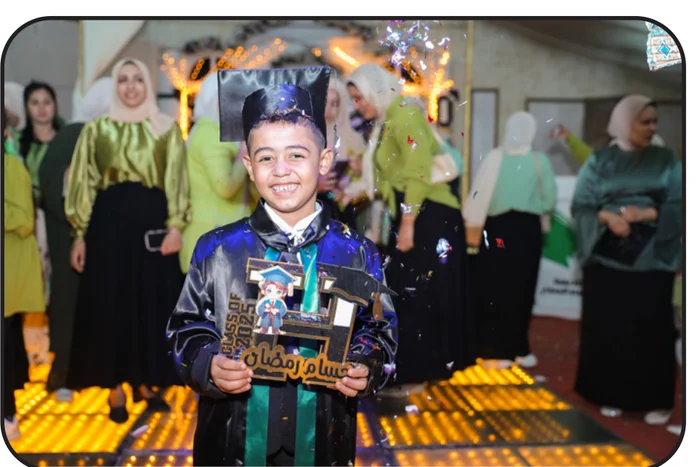
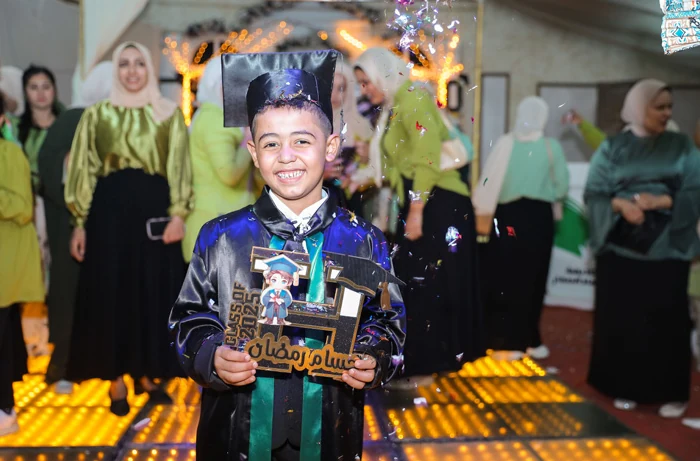
Take the page 74 photos straight from the PDF; drop the stray line from the first one

diff --git a/src/pages/SocialInvestment.jsx b/src/pages/SocialInvestment.jsx
@@ -35,7 +35,7 @@ import financeSmes from '../assets/report/soc/p55-efg-finance-smes.webp';
 import hermesOne from '../assets/report/soc/p56-hermes-one.webp';
 import poster56 from '../assets/report/soc/p56-poster.webp';
 import kenzi from '../assets/report/soc/p56-kenzi.webp';
-import handIcon57 from '../assets/report/soc/p57-hand.webp';
+import financingFigure57 from '../assets/report/soc/p57-figure-financing.svg';
 import dialysis from '../assets/report/soc/p58-dialysis.webp';
 import panel59 from '../assets/report/soc/p59-panel.webp';
 import signing61 from '../assets/report/soc/p61-signing.webp';
@@ -692,11 +692,11 @@ export default function SocialInvestment() {
             </div>
 
             <div>
-              <div className="rp-stat rp-stat--inline">
-                <div className="rp-stat-fig"><span className="rp-stat-u">EGP 2.458 BN</span></div>
-                <img className="rp-icon" src={handIcon57} width="700" height="597"
-                     style={{ '--w': '21.68cqw' }} alt="" />
-              </div>
+              {/* One piece of vector artwork in the PDF, the figure's outlined
+                  numerals over the wrist — exported path for path by
+                  tools/export-vector.py, the figure carried in the alt text. */}
+              <img className="rp-logo rp-logo--end" src={financingFigure57} width="153" height="111"
+                   style={{ '--w': 'max(182px, 25.69cqw)', '--wm': '220px' }} alt="EGP 2.458 BN" />
               {/* The print sets the three percentages as type on the slices, so
                   they are type here too rather than pixels inside a picture. */}
               <figure className="rp-figure-fig rp-chart">
@@ -1454,7 +1454,7 @@ export default function SocialInvestment() {
                   <h3>{title}</h3>
                   <p>{lines}</p>
                 </div>
-                <img src={photo} width="700" height="500" alt="" />
+                <img src={photo} width="700" height="463" alt="" />
               </div>
             ))}
           </div>

diff --git a/src/styles/report.css b/src/styles/report.css
@@ -1042,6 +1042,8 @@
 }
 .rp-media { display: block; width: 100%; height: auto; margin: 0 0 2cqw; }
 .rp-logo { display: block; width: var(--w); max-width: 100%; height: auto; margin: 0 0 2cqw; }
+/* a mark that stands at the end of its column, as the page 57 lockup does */
+.rp-logo--end { margin-left: auto; }
 .rp-figure-fig { margin: 2.4cqw 0 3cqw; }
 .rp-sec .rp-caption {
   margin: .8em 0 0; text-align: center; color: #808080;
@@ -1500,7 +1502,10 @@
   font-size: max(15px, 2.52cqw); color: var(--sr-green-deep);
 }
 .rp-sec .rp-glance-box p { margin: 0; text-align: center; font-size: max(14px, 2.352cqw); line-height: 1.45; }
-.rp-glance-row img { width: 100%; height: 100%; object-fit: cover; border-radius: 1.2cqw; }
+/* The print strokes each photograph with the same 1pt rule as the card beside
+   it. The file is the raw photograph (tools/extract-raw-photos.py), so the
+   stroke is drawn here, once. */
+.rp-glance-row img { box-sizing: border-box; width: 100%; height: 100%; object-fit: cover; border-radius: 1.2cqw; border: 1px solid var(--sr-black); }
 .rp-glance-head {
   margin: 3cqw 0 0; padding: 1.2cqw; text-align: center;
   border: 1.12px solid var(--sr-green-deep); border-radius: 1.2cqw;

diff --git a/src/pages/EnvironmentalStewardship.jsx b/src/pages/EnvironmentalStewardship.jsx
@@ -673,7 +673,7 @@ export default function EnvironmentalStewardship() {
                 are exported together, path for path, as one SVG. The alt text
                 carries the figure for a reader and a search engine. */}
             <img className="rp-logo" src={financingFigure} width="126" height="63"
-                 style={{ '--w': 'max(150px, 21.175cqw)' }} alt="EGP 1,161 BN" />
+                 style={{ '--w': 'max(150px, 21.175cqw)', '--wm': '180px' }} alt="EGP 1,161 BN" />
           </div>
 
           <p className="rp-lead rp-lead--sm">

diff --git a/tools/export-vector.py b/tools/export-vector.py
@@ -1,0 +1,74 @@
+#!/usr/bin/env python3
+"""Export a piece of vector artwork from the PDF, path for path, as an SVG.
+
+Used where the print draws a figure and its mark as one drawing — the hands
+lockups on printed pages 24 and 57, where the numerals are outlined glyphs laid
+over the wrist. A raster crop cannot take the hand without the figure, and
+masking the figure out broke the hand. So every filled path whose box lies
+inside the clip is written out in PDF coordinates, shifted to the origin.
+
+    python3 tools/export-vector.py
+"""
+from pathlib import Path
+
+import pymupdf
+
+ROOT = Path(__file__).resolve().parent.parent
+PDF = ROOT / 'public' / 'EFG-Holding-Sustainability-Report-2025.pdf'
+OUT = ROOT / 'src' / 'assets' / 'report'
+
+# (output, sheet, clip in sheet points, accessible name)
+JOBS = [
+    ('env/p24-figure-financing', 12, (410, 318, 548, 390), 'EGP 1,161 BN'),
+    ('soc/p57-figure-financing', 28, (955, 480, 1118, 600), 'EGP 2.458 BN'),
+]
+
+
+def hexcol(rgb):
+    return '#' + ''.join(f'{round(c * 255):02x}' for c in rgb)
+
+
+def export(name, sheet, clip, label, doc):
+    page = doc[sheet]
+    box = pymupdf.Rect(clip)
+    paths = [p for p in page.get_drawings() if p.get('fill') and box.contains(p['rect'])]
+    x0 = min(p['rect'].x0 for p in paths); y0 = min(p['rect'].y0 for p in paths)
+    x1 = max(p['rect'].x1 for p in paths); y1 = max(p['rect'].y1 for p in paths)
+    f = lambda pt: f'{pt.x - x0:.2f} {pt.y - y0:.2f}'
+    out = []
+    for p in paths:
+        d, cur = [], None
+        for it in p['items']:
+            k = it[0]
+            if k in ('l', 'c'):
+                a = it[1]
+                if cur is None or abs(cur.x - a.x) > 1e-3 or abs(cur.y - a.y) > 1e-3:
+                    d.append('M' + f(a))
+                d.append(('L' + f(it[2])) if k == 'l' else ('C' + ' '.join(f(q) for q in it[2:5])))
+                cur = it[-1]
+            elif k == 're':
+                q = it[1]
+                d.append(f'M{f(q.tl)}H{q.x1 - x0:.2f}V{q.y1 - y0:.2f}H{q.x0 - x0:.2f}Z'); cur = None
+            elif k == 'qu':
+                q = it[1]
+                d.append('M' + f(q.ul) + 'L' + f(q.ur) + 'L' + f(q.lr) + 'L' + f(q.ll) + 'Z'); cur = None
+        if p.get('closePath'):
+            d.append('Z')
+        rule = 'evenodd' if p.get('even_odd') else 'nonzero'
+        out.append(f'<path fill="{hexcol(p["fill"])}" fill-rule="{rule}" d="{"".join(d)}"/>')
+    w, h = x1 - x0, y1 - y0
+    svg = (f'<svg xmlns="http://www.w3.org/2000/svg" viewBox="0 0 {w:.2f} {h:.2f}" width="{w:.2f}" '
+           f'height="{h:.2f}" role="img" aria-label="{label}"><title>{label}</title>{"".join(out)}</svg>')
+    dest = OUT / (name + '.svg')
+    dest.write_text(svg)
+    print(dest.relative_to(ROOT), f'{w:.1f} x {h:.1f}pt', len(paths), 'paths')
+
+
+def main():
+    doc = pymupdf.open(PDF)
+    for job in JOBS:
+        export(*job, doc)
+
+
+if __name__ == '__main__':
+    main()

diff --git a/tools/assets.py b/tools/assets.py
@@ -47,7 +47,7 @@ A = [
   ('env/p23-eo-charger',       11, (630.9,359.6,887.5,493.1),   'art',  400, 900),
   ('env/p24-banknxt',          12, (391.6,130.1,561.1,153.0),   'mark', 900, 900),
   # env/p24-icon-hand is retired: the figure and the hands are one piece of vector art,
-  # exported path for path as src/assets/report/env/p24-figure-financing.svg.
+  # exported path for path as env/p24-figure-financing.svg by tools/export-vector.py.
   ('env/p25-tomorrow',         12, (1034.4,119.1,1151.9,160.9), 'mark', 900, 900),
   ('env/p25-team',             12, (630.7,214.9,1154.6,375.1),  'art',  300, 1400),
   ('env/p25-infinity',         12, (626.0,562.7,770.6,602.7),   'mark', 900, 900),
@@ -133,7 +133,8 @@ A = [
   ('soc/p56-hermes-one',    28, (493,299,559,366),          'flat', 900, 600),
   ('soc/p56-poster',        28, (362.0,392.3,559.3,579.9),  'flat', 400, 800),
   ('soc/p56-kenzi',         28, (35,590,152,679),   'flat', 700, 600),
-  ('soc/p57-hand',          28, (991,482,1120,592),        'flat', 800, 700),
+  # soc/p57-hand is retired: exported with its figure as soc/p57-figure-financing.svg
+  # by tools/export-vector.py.
   # ---- Section 3, pages 58 to 77 -----------------------------------------
   ('soc/p58-dialysis',      29, (304.7,453.4,560.3,764.0),  'flat', 400, 900),
   ('soc/p59-panel',         29, (646.8,93.9,1139.4,775.1),  'flat', 330, 1500),
@@ -160,12 +161,8 @@ A = [
   ('soc/p71-student-2',     35, (631.3,562.4,811.3,747.4),  'flat', 400, 700),
   ('soc/p73-classroom',     36, (631.3,139.3,1155.1,453.2), 'flat', 330, 1400),
   ('soc/p73-foundation',    36, (636,485,930,530),          'mark', 700, 1100),
-  ('soc/p74-photo-1',       37, (387.0,162.1,561.3,309.6),  'flat', 400, 700),
-  ('soc/p74-photo-2',       37, (35.0,311.0,207.2,425.8),   'flat', 400, 700),
-  ('soc/p74-photo-3',       37, (389.8,432.3,559.8,549.3),  'flat', 400, 700),
-  # the photograph only — the box used to reach down into the card's heading
-  ('soc/p74-photo-4',       37, (38.1,558.4,201.0,667.4),   'flat', 400, 700),
-  ('soc/p74-photo-5',       37, (390.4,677.6,558.3,789.6),  'flat', 400, 700),
+  # soc/p74-photo-1..5 are taken straight from the PDF by tools/extract-raw-photos.py:
+  # the first crop took a line of the card above and its rule with it.
   ('soc/p75-academy',       37, (631.7,361.5,700.5,417.9),  'flat', 900, 600),
   ('soc/p76-montessori',    38, (34.6,379.1,350.3,764.0), 'flat', 400, 900),
   ('soc/p76-circle-1',      38, (298.4,402.0,402.1,503.7),  'flat', 500, 500),

diff --git a/tools/extract-raw-photos.py b/tools/extract-raw-photos.py
@@ -23,23 +23,28 @@ ROOT = Path(__file__).resolve().parent.parent
 PDF = ROOT / 'public' / 'EFG-Holding-Sustainability-Report-2025.pdf'
 OUT = ROOT / 'src' / 'assets' / 'report'
 
-# (output name, sheet, left edge of the region the photographs sit in)
+# (output name, sheet, region of the sheet the photographs sit in)
 JOBS = [
-    ('env/p41-photo-{n}', 20, 900),   # printed page 41, the six participant cards
+    ('env/p41-photo-{n}', 20, (900, 0, 1191, 842)),   # printed page 41, the six participant cards
+    ('soc/p74-photo-{n}', 37, (0, 150, 569, 800)),    # printed page 74, the Foundation's year
 ]
 
 
 def main():
     doc = pymupdf.open(PDF)
-    for name, sheet, xmin in JOBS:
+    for name, sheet, region in JOBS:
         page = doc[sheet]
+        area = pymupdf.Rect(region)
         images = sorted(
-            ((i['xref'], i['bbox']) for i in page.get_image_info(xrefs=True) if i['bbox'][0] > xmin),
+            ((i['xref'], i['bbox']) for i in page.get_image_info(xrefs=True)
+             if area.contains(pymupdf.Rect(i['bbox']))),
             key=lambda t: t[1][1])
-        clips = [x['scissor'] for x in page.get_drawings(extended=True)
-                 if x['type'] == 'clip' and x['scissor'][0] > xmin]
+        clips = [pymupdf.Rect(x['scissor']) for x in page.get_drawings(extended=True)
+                 if x['type'] == 'clip' and area.contains(pymupdf.Rect(x['scissor']))
+                 and x['scissor'][2] - x['scissor'][0] < 300]
         for n, (xref, bb) in enumerate(images, 1):
-            clip = min(clips, key=lambda c: abs(c[1] - bb[1]))
+            # the clip that covers most of this picture is the frame it is shown in
+            clip = max(clips, key=lambda c: (c & pymupdf.Rect(bb)).get_area())
             pix = pymupdf.Pixmap(doc, xref)
             if pix.alpha:
                 pix = pymupdf.Pixmap(pix, 0)

diff --git a/HANDOVER.md b/HANDOVER.md
@@ -131,11 +131,11 @@ what was done:
 
 ### After the second round
 
-- **Page 24, EGP 1,161 BN.** The figure and the two hands are one piece of
+- **Pages 24 and 57, EGP 1,161 BN and EGP 2.458 BN.** The figure and the two hands are one piece of
   vector artwork in the PDF, the numerals outlined and drawn over the wrist.
   Masking the numerals out of a raster crop kept breaking the hand, so the whole
-  lockup is exported path for path as `p24-figure-financing.svg`, with the
-  figure in its alt text. It is the one place a printed figure is not HTML text,
+  lockup is exported path for path (`tools/export-vector.py`), with the figure
+  in its alt text. These are the two places a printed figure is not HTML text,
   at EFG's request.
 - **Page 41, the participant cards.** The crops carried the print's own olive
   outline, so each card showed two. The photographs are now the raw images out
